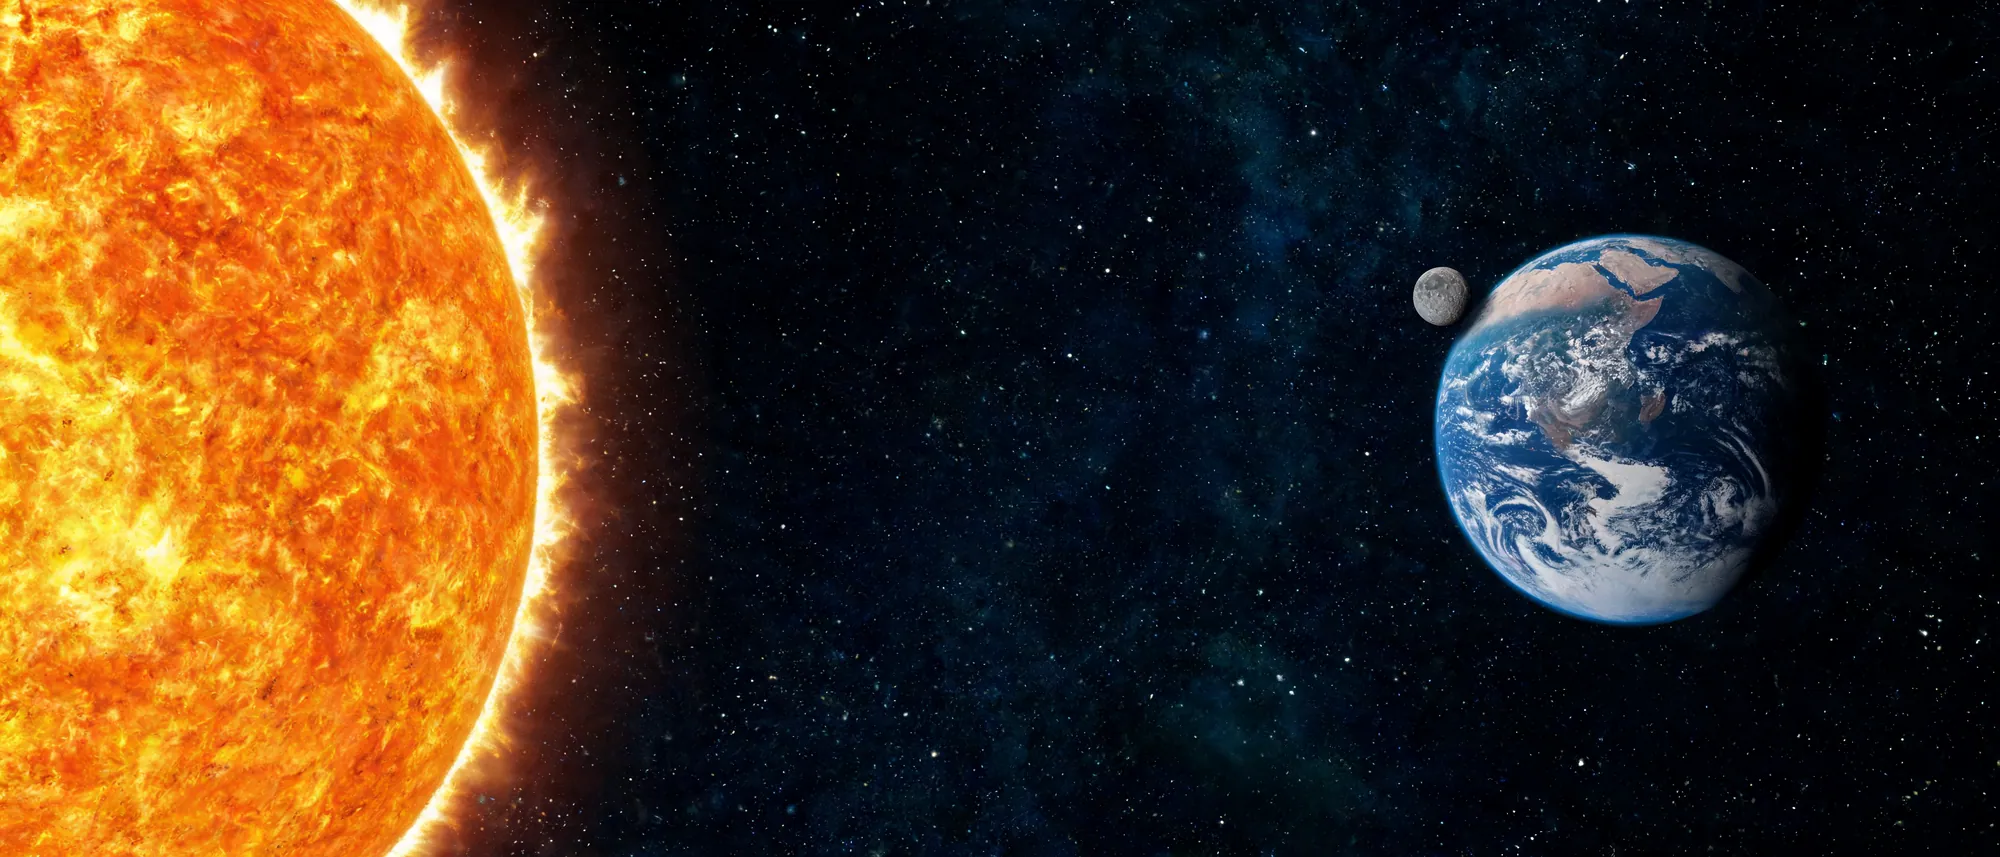
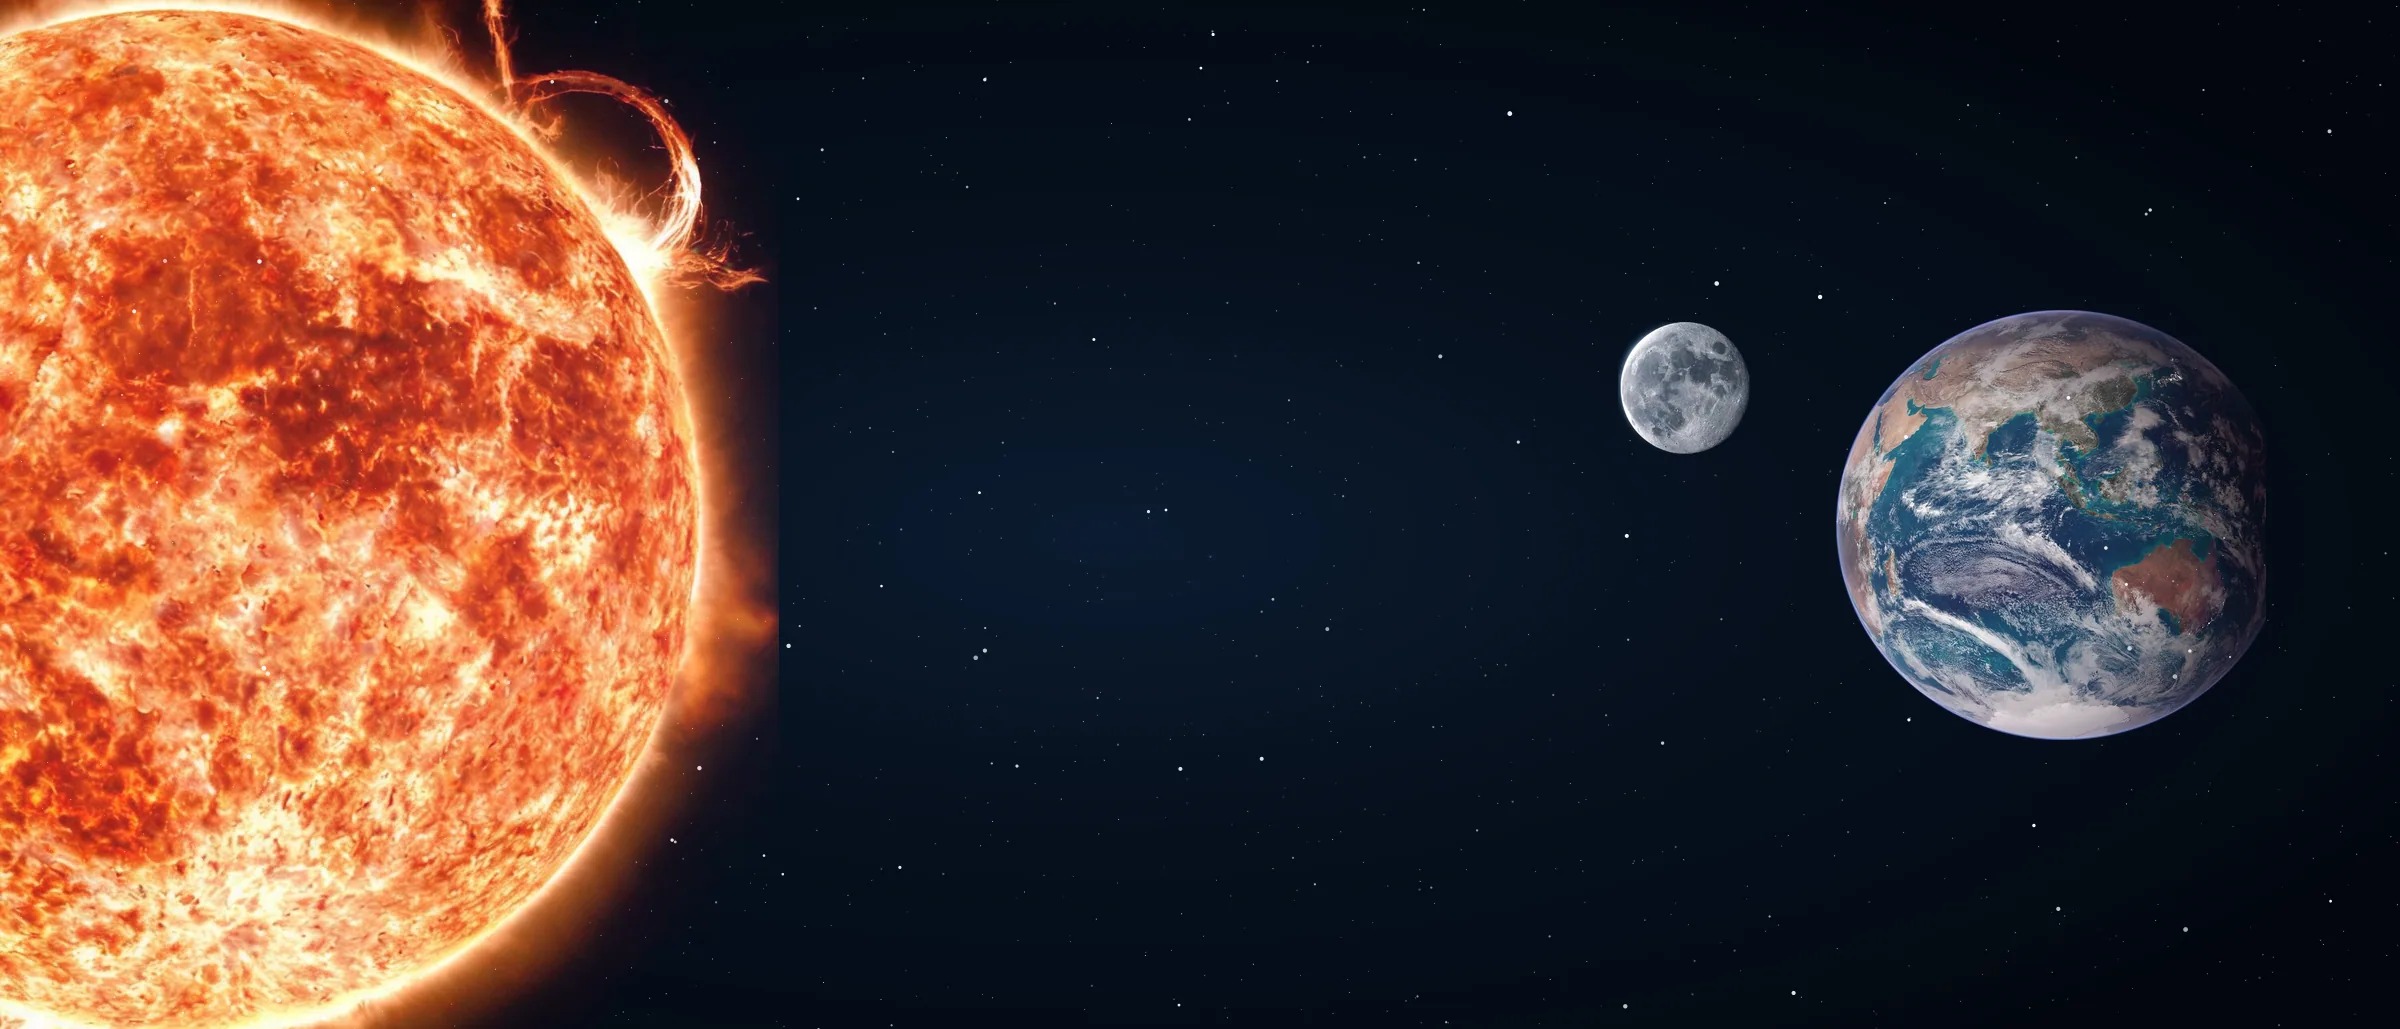
Round the Earth, and make the particle field five times denser
Roundness
- The Earth in the generated scene was 0.70 as wide as it was tall, and the
  NASA source is 0.949 because its crop is not a centred sphere. Rather than
  re-rolling the model and hoping, the scene is now composed from sources
  whose roundness is enforced: each body's disc is located by thresholding,
  that box is cut out, and it is resized to an exact square, so any ovalness
  is corrected and none of them can come out elliptical.
- Measured at the placement: Earth 445x440, w/h 1.011.
- Sun, Earth and Moon sit on a procedural starfield and nebula, composited
  with screen blending so their black backgrounds drop out.

Density
- 5,242 particles at 2px was far coarser than the reference, which is a fine
  dust the image reads through. Now 28,709 particles at 1px.
- Two optimisations paid for it. A trig lookup table, since cos and sin were
  called twice per particle per frame and the flow field does not need more
  than 1024 angular steps. And off-screen culling: the camera shows only part
  of the scene, so about 20,000 particles are outside the viewport at any
  moment and their physics is skipped. Together: 9.70ms to 4.92ms per frame.
- Cursor radius raised to 180px so the pointer wake is easier to find.

NOISE_STRENGTH stays 0.14. Drift only means something relative to the bodies,
and at 131px against a 723px on-screen Earth it is 18%, the same ratio that
read well before the scene was rescaled.

diff --git a/assets/orbit.js b/assets/orbit.js
@@ -45,16 +45,16 @@
   'use strict';
 
   /* ---- Tuning, in ParticleImage's terms -------------------------------- */
-  var SAMPLE_W = 900;       // width the scene is sampled at
-  var STEP = 5;             // sampling grid - lower is denser and slower
+  var SAMPLE_W = 1300;      // width the scene is sampled at
+  var STEP = 3;             // sampling grid - lower is denser and slower
   var LUM_MIN = 26;         // below this, a sample is empty space
-  var PARTICLE_SIZE = 2;    // px
+  var PARTICLE_SIZE = 1;    // px - a fine dust, as in the reference
   var SPEED = 0.00022;      // how fast the flow field evolves
   var NOISE_SCALE = 0.0012; // lower = longer, smoother currents
   var NOISE_STRENGTH = 0.14; // tuned so the scene stays legible while it swirls
   var DAMPING = 0.94;       // velocity retained per frame
   var LIFESPAN = 190;       // frames before a particle returns home
-  var CURSOR_RADIUS = 150;  // px
+  var CURSOR_RADIUS = 180;  // px
   var CURSOR_STRENGTH = 2.4;
   var ZOOM = 1.28;          // >1 so there is room to travel
   var MAX_DPR = 1.5;
@@ -86,6 +86,17 @@
       lerp(grad(perm[perm[X] + Y + 1], x, y - 1), grad(perm[perm[X + 1] + Y + 1], x - 1, y - 1), u),
       v);
   }
+
+  /* ---- Trig lookup ------------------------------------------------------
+     cos and sin are called twice per particle per frame. At thirty thousand
+     particles that is the single most expensive thing in the loop, and the
+     flow field does not need more angular precision than 1024 steps. */
+  var LUT = 1024, COS = new Float32Array(LUT), SIN = new Float32Array(LUT);
+  for (var li = 0; li < LUT; li++) {
+    var la = li / LUT * Math.PI * 2;
+    COS[li] = Math.cos(la); SIN[li] = Math.sin(la);
+  }
+  var LUT_K = LUT / (Math.PI * 2);
 
   function smooth(a, b, x) {
     x = Math.max(0, Math.min(1, (x - a) / (b - a)));
@@ -199,18 +210,25 @@
         var r2 = CURSOR_RADIUS * dpr, r2sq = r2 * r2;
 
         for (var i = 0; i < N; i++) {
+          var homeX = hx[i] * sceneW - camX;
+
+          // The camera only ever shows part of the scene, so roughly a
+          // quarter of the particles are off to one side at any moment.
+          // Skipping their physics entirely is the cheapest win available.
+          if (homeX < -120 || homeX > W + 120) continue;
+
           if (age[i]++ >= LIFESPAN) {
             age[i] = 0; ox[i] = 0; oy[i] = 0; vx[i] = 0; vy[i] = 0;
           }
-          var homeX = hx[i] * sceneW - camX;
           var homeY = hy[i] * sceneH - camY;
           var cx = homeX + ox[i], cy = homeY + oy[i];
 
           // Flow field, sampled in scene space so the currents belong to
           // the scene rather than drifting with the camera
           var a = perlin((cx + camX) * NOISE_SCALE + t, (cy + camY) * NOISE_SCALE) * Math.PI * 4;
-          vx[i] += Math.cos(a) * NOISE_STRENGTH * gust;
-          vy[i] += Math.sin(a) * NOISE_STRENGTH * gust;
+          var k = ((a * LUT_K) | 0) & (LUT - 1);
+          vx[i] += COS[k] * NOISE_STRENGTH * gust;
+          vy[i] += SIN[k] * NOISE_STRENGTH * gust;
 
           // Pointer momentum
           var dx = cx - pxr, dy = cy - pyr;

diff --git a/README.md b/README.md
@@ -528,16 +528,22 @@ readable while everything is moving.
 
 | | |
 |---|---|
-| particles | 5,242 |
-| frame cost | 2.88ms (budget 16.6ms) |
-| respawns | ~27 per frame |
-| drift | avg 77px, max 98px before returning home |
+| particles | 28,709 |
+| on screen at once | ~8,300 (the rest are culled) |
+| frame cost | 4.92ms (budget 16.6ms) |
+| drift | avg 131px against a 723px Earth, about 18% |
 
-`NOISE_STRENGTH` is **0.14, tuned rather than guessed**. At 0.34 the average
-drift was 143px, and since the Earth is only about 400px across in the scene it
-smeared into illegibility. If you want a wilder field, raise it and watch that
-drift number - past roughly 100px average the scene stops reading.
+Two optimisations pay for that density. A **trig lookup table**: cos and sin
+were called twice per particle per frame, and the flow field does not need more
+than 1024 angular steps. And **off-screen culling**: the camera only shows part
+of the scene, so around 20,000 particles sit outside the viewport at any moment
+and their physics is skipped entirely. Together they took the frame from 9.70ms
+to 4.92ms, which is what made 28,709 particles affordable instead of 5,242.
 
+`NOISE_STRENGTH` is **0.14, tuned rather than guessed**. Drift is meaningful
+only relative to the bodies: at 18% of the Earth diameter the scene still reads,
+and past roughly 25% it smears. If you change `SAMPLE_W` or `ZOOM` the scene
+scale changes with them, so re-measure rather than assuming the number still holds.
 ### Two implementation notes
 
 **Offsets, not absolute positions.** Each particle stores an offset from its
